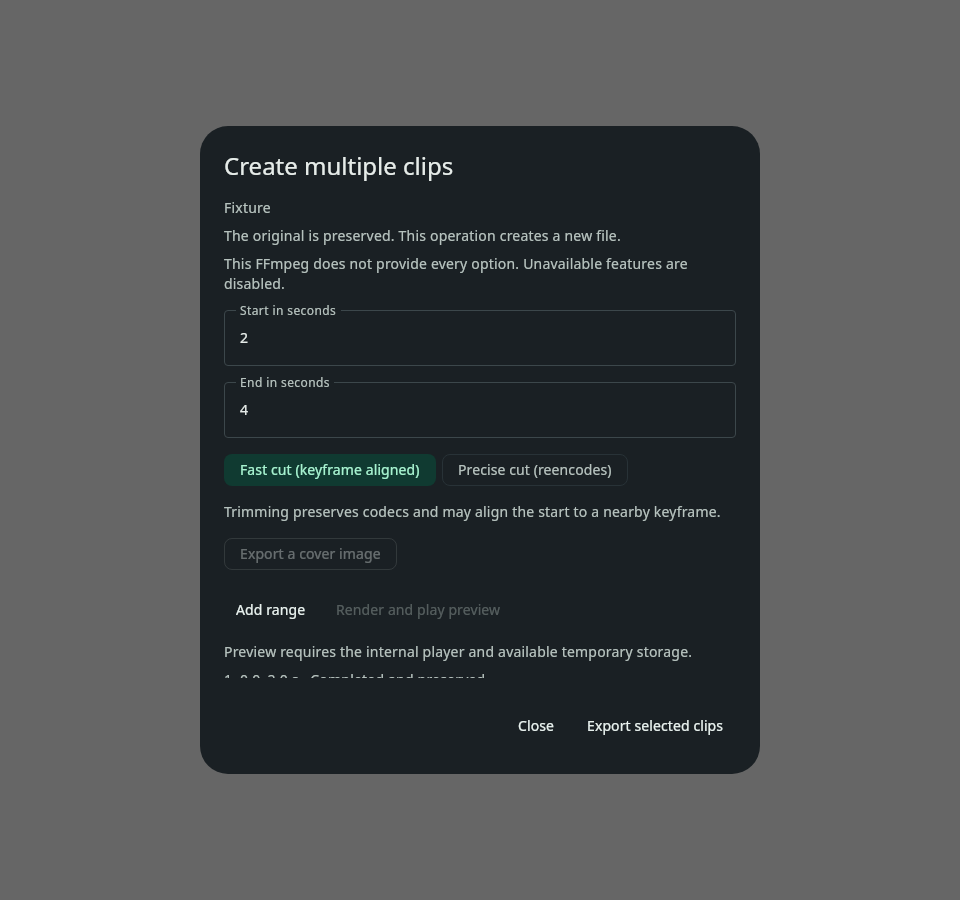
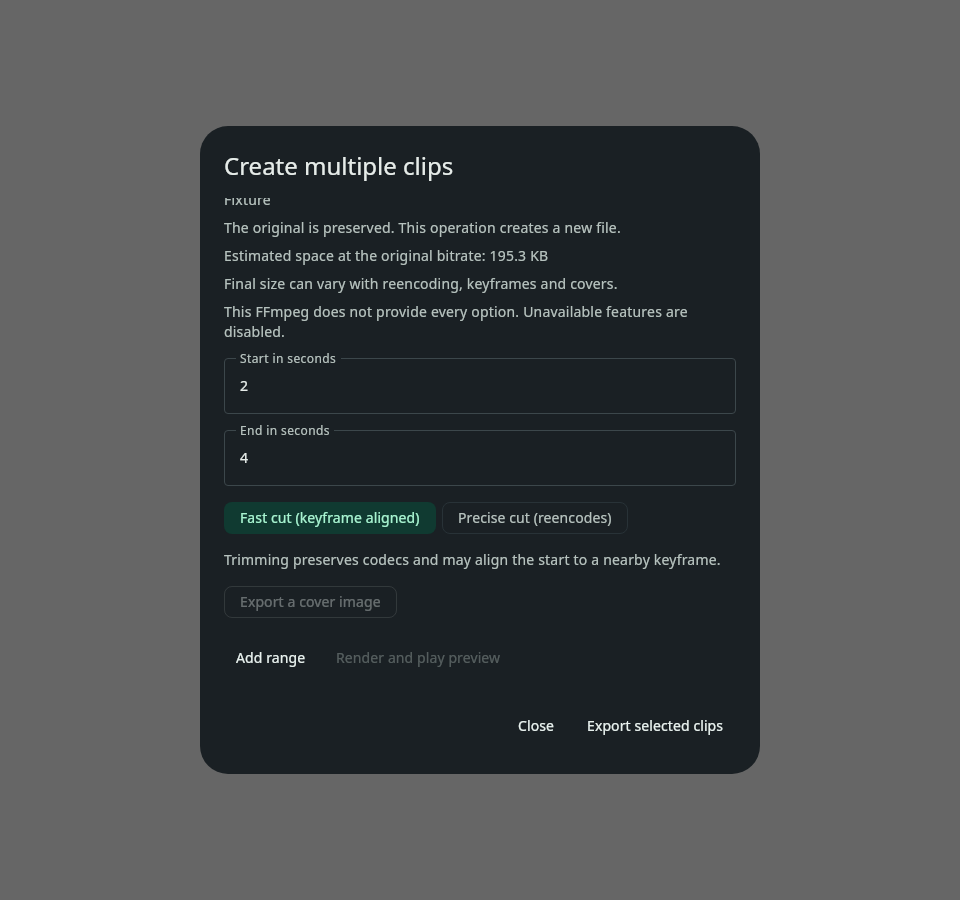
feat: estimate batch storage and verify rotated clip rendering

diff --git a/media-ffmpeg/src/desktopTest/kotlin/com/openyt/media/ffmpeg/ClipRenderingContractTest.kt b/media-ffmpeg/src/desktopTest/kotlin/com/openyt/media/ffmpeg/ClipRenderingContractTest.kt
@@ -122,12 +122,19 @@ class ClipRenderingContractTest {
             val request = request(source.path, "cancel").copy(segment = MediaSegment(0, 60_000), sourceDurationMillis = 70_000)
             assertTrue(processor.queueClips(listOf(request)))
             val job = launch(Dispatchers.Default) { processor.process(request) }
+            var encoding: ProcessHandle? = null
             withTimeout(5_000) {
-                while (root.listFiles().orEmpty().none { it.name.startsWith(".openyt-process-") }) delay(10)
+                while (encoding == null) {
+                    encoding = ProcessHandle.current().children().use { children -> children.filter { child ->
+                        child.info().arguments().orElse(emptyArray()).any { it.endsWith("output.mp4") }
+                    }.findFirst().orElse(null) }
+                    if (encoding == null) delay(10)
+                }
             }
             val clock = System.nanoTime()
             job.cancelAndJoin()
             assertTrue((System.nanoTime() - clock) / 1_000_000 < 5_000, "Cancel must reap the native process promptly")
+            assertFalse(encoding!!.isAlive, "The actual encoding process must be reaped")
             assertEquals(ClipJobStatus.CANCELED, store.get("cancel")!!.status)
             assertTrue(root.listFiles().orEmpty().none { it.name.startsWith(".openyt-process-") })
             assertEquals(original, source.readBytes().toList())
@@ -164,6 +171,34 @@ class ClipRenderingContractTest {
                     assertTrue(contentRows in 538..542, "4:3 content must occupy 720x540 square pixels: $contentRows")
                 }
             }
+        } finally { root.deleteRecursively() }
+    }
+
+    @Test fun rotatedInputIsOrientedBeforeFramingAndCoverUsesTheChosenSourceTime() = runBlocking {
+        org.junit.Assume.assumeTrue(System.getenv("OPENYT_RUN_MEDIA_TESTS") == "1")
+        val binary = System.getenv("OPENYT_FFMPEG") ?: "/usr/bin/ffmpeg"
+        val probe = System.getenv("OPENYT_FFPROBE") ?: File(File(binary).parentFile, "ffprobe").absolutePath
+        val root = Files.createTempDirectory("openyt-rotated-").toFile()
+        fun command(vararg args: String): String {
+            val process = ProcessBuilder(*args).redirectErrorStream(true).start()
+            val text = process.inputStream.bufferedReader().readText()
+            assertEquals(0, process.waitFor(), text)
+            return text.trim()
+        }
+        try {
+            val raw = root.resolve("timeline.mp4")
+            command(binary, "-v", "error", "-f", "lavfi", "-i", "color=c=red:size=320x180:rate=10:duration=2", "-f", "lavfi", "-i", "color=c=lime:size=320x180:rate=10:duration=2", "-f", "lavfi", "-i", "color=c=blue:size=320x180:rate=10:duration=2", "-filter_complex", "[0:v][1:v][2:v]concat=n=3:v=1:a=0", "-c:v", "libx264", raw.path)
+            val source = root.resolve("rotated.mp4")
+            command(binary, "-v", "error", "-display_rotation", "90", "-i", raw.path, "-c", "copy", source.path)
+            assertTrue(command(probe, "-v", "error", "-select_streams", "v:0", "-show_entries", "stream_side_data=rotation", "-of", "csv=p=0", source.path).contains("90"))
+            val processor = FfmpegMediaProcessor({ binary }, clipStore = Store())
+            val recipe = request(source.path, "rotate").copy(framing = ClipFraming.ORIGINAL, segment = MediaSegment(1_000, 5_000), sourceDurationMillis = 6_000, coverAtMillis = 3_500)
+            assertTrue(processor.queueClips(listOf(recipe)))
+            val output = assertIs<EngineResult.Success<ProcessedMedia>>(processor.process(recipe)).value
+            assertEquals("180,320", command(probe, "-v", "error", "-select_streams", "v:0", "-show_entries", "stream=width,height", "-of", "csv=p=0", output.path))
+            val cover = ImageIO.read(File(output.coverPath!!))
+            val rgb = cover.getRGB(cover.width / 2, cover.height / 2)
+            assertTrue((rgb shr 8 and 255) > 220 && (rgb shr 16 and 255) < 30 && (rgb and 255) < 30, "Cover at source 3.5s must show the green interval")
         } finally { root.deleteRecursively() }
     }
 }

diff --git a/desktopApp/src/test/kotlin/com/openyt/desktop/ui/ExpansionM4UiTest.kt b/desktopApp/src/test/kotlin/com/openyt/desktop/ui/ExpansionM4UiTest.kt
@@ -86,12 +86,13 @@ class ExpansionM4UiTest {
             val processor = Processor(repository)
             val coordinator = DownloadCoordinator(SuspendedDownloadEngine(), scope, repository = repository)
             setContent { CompositionLocalProvider(LocalStrings provides EnStrings) { OpenYtTheme { Surface {
-                BatchClipsDialog(LibraryEntry("entry", "Fixture", MediaKind.VIDEO, "/fixture/source.mp4"), processor, coordinator,
+                BatchClipsDialog(LibraryEntry("entry", "Fixture", MediaKind.VIDEO, "/fixture/source.mp4", sizeBytes = 1_000_000), processor, coordinator,
                     MediaProbe { MediaTechnicalInfo(durationMillis = 10_000) }, null, null, null) {}
             } } } }
             waitForIdle()
             onNodeWithText(EnStrings.features[FeatureText.END_SECONDS]).performTextReplacement("2")
             onNodeWithText(EnStrings.features[ClipText.ADD]).performScrollTo().performClick()
+            onNodeWithText(EnStrings.features[ClipText.ESTIMATE], substring = true).performScrollTo().assertIsDisplayed()
             waitForIdle()
             onNodeWithText(EnStrings.features[FeatureText.START_SECONDS]).performScrollTo().performTextReplacement("2")
             onNodeWithText(EnStrings.features[FeatureText.END_SECONDS]).performTextReplacement("4")

diff --git a/ui/src/commonMain/kotlin/com/openyt/ui/components/BatchClipsDialog.kt b/ui/src/commonMain/kotlin/com/openyt/ui/components/BatchClipsDialog.kt
@@ -104,6 +104,13 @@ fun BatchClipsDialog(entry: LibraryEntry, processor: MediaProcessor, coordinator
                 Text(strings.features[FeatureText.PRESERVE_ORIGINAL])
                 if (busy) LinearProgressIndicator(Modifier.fillMaxWidth())
                 destination?.let { Text("${strings.features[ClipText.DESTINATION]}: $it") }
+                val estimate = estimateClipBytes(entry.sizeBytes, duration, ranges.filter { request ->
+                    history.none { it.id == request.jobId && it.status == ClipJobStatus.SUCCEEDED }
+                }.mapNotNull { it.segment })
+                if (estimate != null) {
+                    Text("${strings.features[ClipText.ESTIMATE]}: ${com.openyt.ui.util.formatBytes(estimate)}")
+                    Text(strings.features[ClipText.ESTIMATE_HINT])
+                } else Text(strings.features[ClipText.ESTIMATE_UNKNOWN])
                 if (duration == null) Text(strings.features[ClipText.NO_DURATION])
                 if (!capabilities.preciseClips || !capabilities.burnCaptions) Text(strings.features[ClipText.UNSUPPORTED])
                 OutlinedTextField(start, { start = it }, label = { Text(strings.features[FeatureText.START_SECONDS]) }, enabled = !busy, modifier = Modifier.fillMaxWidth())

diff --git a/ui/src/commonMain/kotlin/com/openyt/ui/i18n/ClipStrings.kt b/ui/src/commonMain/kotlin/com/openyt/ui/i18n/ClipStrings.kt
@@ -3,6 +3,9 @@ package com.openyt.ui.i18n
 enum class ClipText(val portuguese: String, val english: String) {
     TITLE("Criar vários clipes", "Create multiple clips"),
     DESTINATION("Pasta dos novos clipes", "New clips folder"),
+    ESTIMATE("Espaço estimado pela taxa do original", "Estimated space at the original bitrate"),
+    ESTIMATE_HINT("O tamanho final pode variar com recodificação, quadros-chave e capas.", "Final size can vary with reencoding, keyframes and covers."),
+    ESTIMATE_UNKNOWN("Adicione intervalos para estimar o espaço. O tamanho e a duração do original precisam estar disponíveis.", "Add ranges to estimate space. The original size and duration must be available."),
     ADD("Adicionar intervalo", "Add range"),
     PRECISE("Corte preciso (recodifica)", "Precise cut (reencodes)"),
     COPY("Corte rápido (quadro-chave)", "Fast cut (keyframe aligned)"),

diff --git a/core/src/commonMain/kotlin/com/openyt/core/application/MediaProcessor.kt b/core/src/commonMain/kotlin/com/openyt/core/application/MediaProcessor.kt
@@ -88,3 +88,11 @@ fun parseMediaSegment(startSeconds: String, endSeconds: String): MediaSegment? {
     val end = millis(endSeconds) ?: return null
     return if (end > start) MediaSegment(start, end) else null
 }
+
+/** Source-bitrate estimate only; keyframes/reencoding/cover bytes can differ. */
+fun estimateClipBytes(sourceBytes: Long?, durationMillis: Long?, ranges: List<MediaSegment>): Long? {
+    if (sourceBytes == null || sourceBytes <= 0 || durationMillis == null || durationMillis <= 0 || ranges.isEmpty()) return null
+    if (ranges.any { it.startMillis < 0 || it.endMillis <= it.startMillis || it.endMillis > durationMillis }) return null
+    val totalMillis = ranges.sumOf { (it.endMillis - it.startMillis).toDouble() }
+    return (sourceBytes.toDouble() * (totalMillis / durationMillis)).coerceAtMost(Long.MAX_VALUE.toDouble()).toLong()
+}

diff --git a/core/src/commonTest/kotlin/com/openyt/core/application/ClipStorageEstimateTest.kt b/core/src/commonTest/kotlin/com/openyt/core/application/ClipStorageEstimateTest.kt
@@ -1,0 +1,17 @@
+package com.openyt.core.application
+
+import com.openyt.core.domain.MediaSegment
+import kotlin.test.*
+
+class ClipStorageEstimateTest {
+    @Test fun independentOverlappingExportsCountTwiceAndUnknownInputsStayUnknown() {
+        val range = MediaSegment(1_000, 3_000)
+        assertEquals(400_000L, estimateClipBytes(1_000_000, 10_000, listOf(range, range)))
+        assertNull(estimateClipBytes(null, 10_000, listOf(range)))
+        assertNull(estimateClipBytes(100, null, listOf(range)))
+        assertNull(estimateClipBytes(100, 0, listOf(range)))
+        assertNull(estimateClipBytes(100, 2_000, listOf(range)))
+        val huge = MediaSegment(0, Long.MAX_VALUE)
+        assertEquals(Long.MAX_VALUE, estimateClipBytes(Long.MAX_VALUE, Long.MAX_VALUE, List(100) { huge }))
+    }
+}

diff --git a/docs/testing/NEXT_EXPANSION_VALIDATION.md b/docs/testing/NEXT_EXPANSION_VALIDATION.md
@@ -164,10 +164,11 @@ file through actual packaged VLC, retried idempotently and preserved the source.
 
 ![Actual installed Windows EXE mini-player decoding the synthetic fixture](evidence/expansion-20261114/windows-exe-native-playback.png)
 
-All **255 product Kotlin files** in the native source archive match the working
-product sources; [aggregate fingerprints](evidence/expansion-20261114/native-source-fingerprint.json)
-record that comparison. Later Android test/documentation refinements do not change
-Windows product code. Evidence copy initially hit PowerShell5 long-path limits;
+All **255 product Kotlin files** in the first native source archive match the
+implementation at `897b0cf`; [aggregate fingerprints](evidence/expansion-20261114/native-source-fingerprint.json)
+record that comparison. The final plan audit additionally adds the shared batch space estimate and
+stronger rotation/cover/native-cancellation assertions; its focused checks and
+final native snapshot are recorded with the delivery CI. Evidence copy initially hit PowerShell5 long-path limits;
 robocopy preserved the deep assets successfully without changing test assertions.
 
 The loaded local VM took **85.87s (MSI) / 86.62s (EXE)** to expose the application
@@ -187,6 +188,17 @@ reproduction also showed the fast CDN could finish the 15MB fixture before its
 an active partial pause, retained staging and successful resume. The focused
 check and then all six tests passed with the original bundled binary. Product
 engine behavior and test success criteria were not relaxed.
+
+## Final plan audit
+
+The plan audit added the missing source-bitrate space estimate to the batch
+editor, including unknown inputs, overlapping selections and overflow bounds.
+`ClipStorageEstimateTest`, all three `ExpansionM4UiTest` cases, all five actual
+`ClipRenderingContractTest` cases and Android application/test APK assembly passed.
+Rendering now also proves display-matrix rotation before framing, a green cover
+at the chosen 3.5s source interval, and cancellation of an observed live FFmpeg
+PID with its handle confirmed dead afterward. No staging-directory observation
+alone is used as proof that encoding was running.
 
 ## GitHub gate
 

diff --git a/docs/AUTOMATION_AND_CLIPS.md b/docs/AUTOMATION_AND_CLIPS.md
@@ -51,6 +51,9 @@ In the library, open an item's media tools and choose Create multiple clips.
 Add start/end ranges, reorder them, choose output options and explicitly export.
 The destination is the downloads folder shown in the editor; the queued recipe
 keeps that choice even if global settings change later. Originals remain intact.
+The editor estimates space from the original file bitrate and selected ranges;
+reencoding, keyframe alignment and cover images can change the final size. Unknown
+source size/duration is displayed as unavailable rather than an invented number.
 
 - **Fast cut:** preserves source codecs and may align to a nearby keyframe.
 - **Precise cut:** reencodes using available H.264/AAC encoders.
